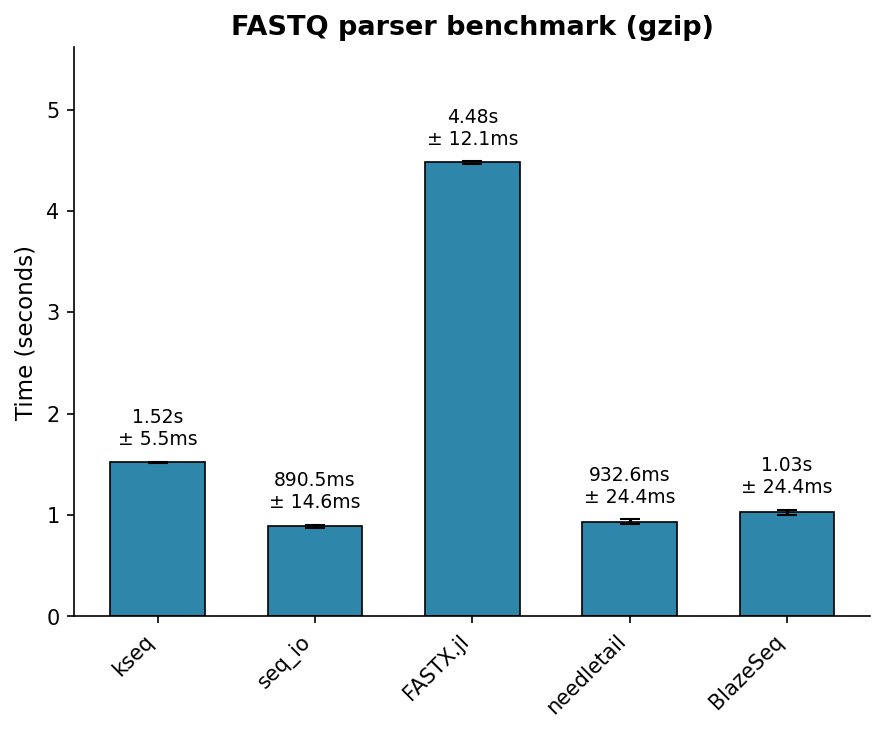
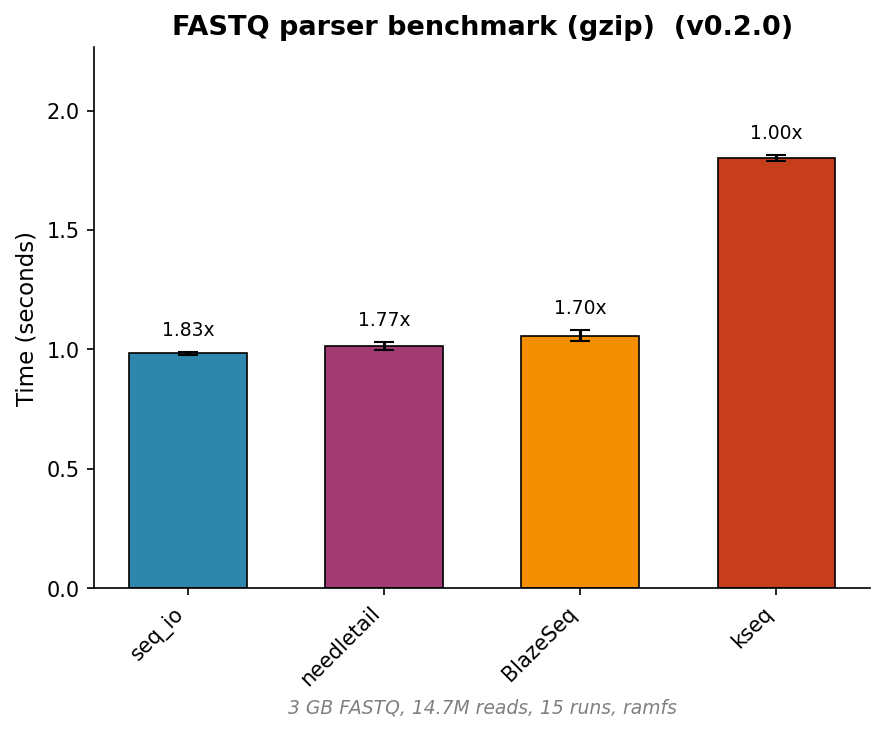
adjust benchmarking scripts, and plots

diff --git a/benchmark/scripts/plot_benchmark_results.py b/benchmark/scripts/plot_benchmark_results.py
@@ -81,8 +81,41 @@ def format_time(seconds: float) -> str:
     return f"{seconds * 1e6:.0f}µs"
 
 
+def reads_to_millions_str(reads: int) -> str:
+    """Format read count as millions with one decimal (e.g. 14758000 -> '14.8M')."""
+    if reads <= 0:
+        return "0M"
+    millions = reads / 1e6
+    if millions >= 1000:
+        return f"{millions / 1000:.1f}B"
+    if millions >= 1:
+        return f"{millions:.1f}M"
+    return f"{millions:.1f}M"
+
+
+def build_setup_text(
+    basename: str,
+    *,
+    runs: int | None = None,
+    size_gb: float | None = None,
+    reads: int | None = None,
+    ramfs: bool = True,
+) -> str:
+    """Build setup description for the graph from optional runs, size_gb, reads."""
+    parts = []
+    if size_gb is not None:
+        parts.append(f"{size_gb:.0f} GB FASTQ")
+    if reads is not None:
+        parts.append(f"{reads_to_millions_str(reads)} reads")
+    if runs is not None:
+        parts.append(f"{runs} runs")
+    if ramfs and basename in ("parser_plain", "parser_gzip"):
+        parts.append("ramfs")
+    return ", ".join(parts) if parts else ""
+
+
 def setup_text_for_basename(basename: str) -> str:
-    """Short (3–5 word) test setup description for the graph."""
+    """Short (3–5 word) test setup description for the graph (fallback when no args)."""
     if basename in ("parser_plain", "parser_gzip"):
         return "3 GB FASTQ, 5 runs, ramfs"
     if basename == "throughput":
@@ -101,6 +134,9 @@ def plot_one(
     setup_text: str = "",
 ) -> None:
     """Plot one benchmark result set as a column chart with error bars and annotations."""
+    # Sort by mean time (fastest on the left)
+    results = sorted(results, key=lambda r: r["mean"])
+
     names = [r["command"] for r in results]
     means = np.array([r["mean"] for r in results])
     stddevs = np.array([r.get("stddev", 0.0) for r in results])
@@ -125,11 +161,15 @@ def plot_one(
     ax.spines["top"].set_visible(False)
     ax.spines["right"].set_visible(False)
 
-    # Annotate each bar with mean ± stddev
-    for i, (mean, std) in enumerate(zip(means, stddevs)):
-        label = format_time(mean)
-        if std > 0:
-            label += f"\n± {format_time(std)}"
+    # Annotate each bar with relative speedup vs slowest (largest mean time)
+    slowest = float(max(means)) if len(means) else 0.0
+    for i, mean in enumerate(means):
+        if slowest > 0:
+            factor = slowest / float(mean)
+            label = f"{factor:.2f}x"
+        else:
+            label = "1.00x"
+        std = float(stddevs[i]) if i < len(stddevs) else 0.0
         ax.annotate(
             label,
             xy=(i, mean + std),
@@ -157,6 +197,9 @@ def plot_throughput_gbps(
     setup_text: str = "",
 ) -> None:
     """Plot throughput in GB/s (data_size_gb / time_s) with error bars from time stddev."""
+    # Sort by mean time so highest throughput (smallest time) appears on the left
+    results = sorted(results, key=lambda r: r["mean"])
+
     names = [r["command"] for r in results]
     means_s = np.array([r["mean"] for r in results])
     stddevs_s = np.array([r.get("stddev", 0.0) for r in results])
@@ -185,10 +228,9 @@ def plot_throughput_gbps(
     ax.spines["top"].set_visible(False)
     ax.spines["right"].set_visible(False)
 
+    # Annotate each bar with throughput ± stddev (GB/s) on top
     for i, (rate, err) in enumerate(zip(rates, rate_errs)):
-        label = f"{rate:.2f}"
-        if err > 0:
-            label += f"\n± {err:.2f}"
+        label = f"{rate:.2f} ± {err:.2f}"
         ax.annotate(
             label,
             xy=(i, rate + err),
@@ -235,6 +277,9 @@ def main() -> int:
     parser.add_argument("--repo-root", type=Path, default=Path.cwd(), help="Repository root (default: cwd)")
     parser.add_argument("--assets-dir", type=Path, default=None, help="Output directory for plots (default: repo_root/assets)")
     parser.add_argument("--json", type=Path, action="append", dest="json_paths", help="Path(s) to hyperfine JSON (default: standard files)")
+    parser.add_argument("--runs", type=int, default=None, help="Number of hyperfine runs (displayed on plot)")
+    parser.add_argument("--size-gb", type=float, default=None, help="Data size in GB (displayed on plot)")
+    parser.add_argument("--reads", type=int, default=None, help="Number of reads/records (displayed as millions to 1 sig digit)")
     args = parser.parse_args()
 
     repo_root = args.repo_root.resolve()
@@ -256,7 +301,16 @@ def main() -> int:
             continue
         basename = output_basename(json_path)
         title = title_for_basename(basename)
-        setup_text = setup_text_for_basename(basename)
+        if args.runs is not None or args.size_gb is not None or args.reads is not None:
+            setup_text = build_setup_text(
+                basename,
+                runs=args.runs,
+                size_gb=args.size_gb,
+                reads=args.reads,
+                ramfs=basename in ("parser_plain", "parser_gzip"),
+            )
+        else:
+            setup_text = setup_text_for_basename(basename)
         out_path = assets_dir / f"{basename}.png"
         plot_one(results, title, out_path, version=version, setup_text=setup_text)
         print(f"Wrote {out_path}")
@@ -264,9 +318,10 @@ def main() -> int:
         # Throughput benchmark: also generate GB/s figure
         if basename == "throughput":
             gbps_path = assets_dir / "throughput_gbps.png"
+            data_size_gb = args.size_gb if args.size_gb is not None else DATA_SIZE_GB
             plot_throughput_gbps(
                 results,
-                DATA_SIZE_GB,
+                data_size_gb,
                 gbps_path,
                 version=version,
                 setup_text=setup_text,
